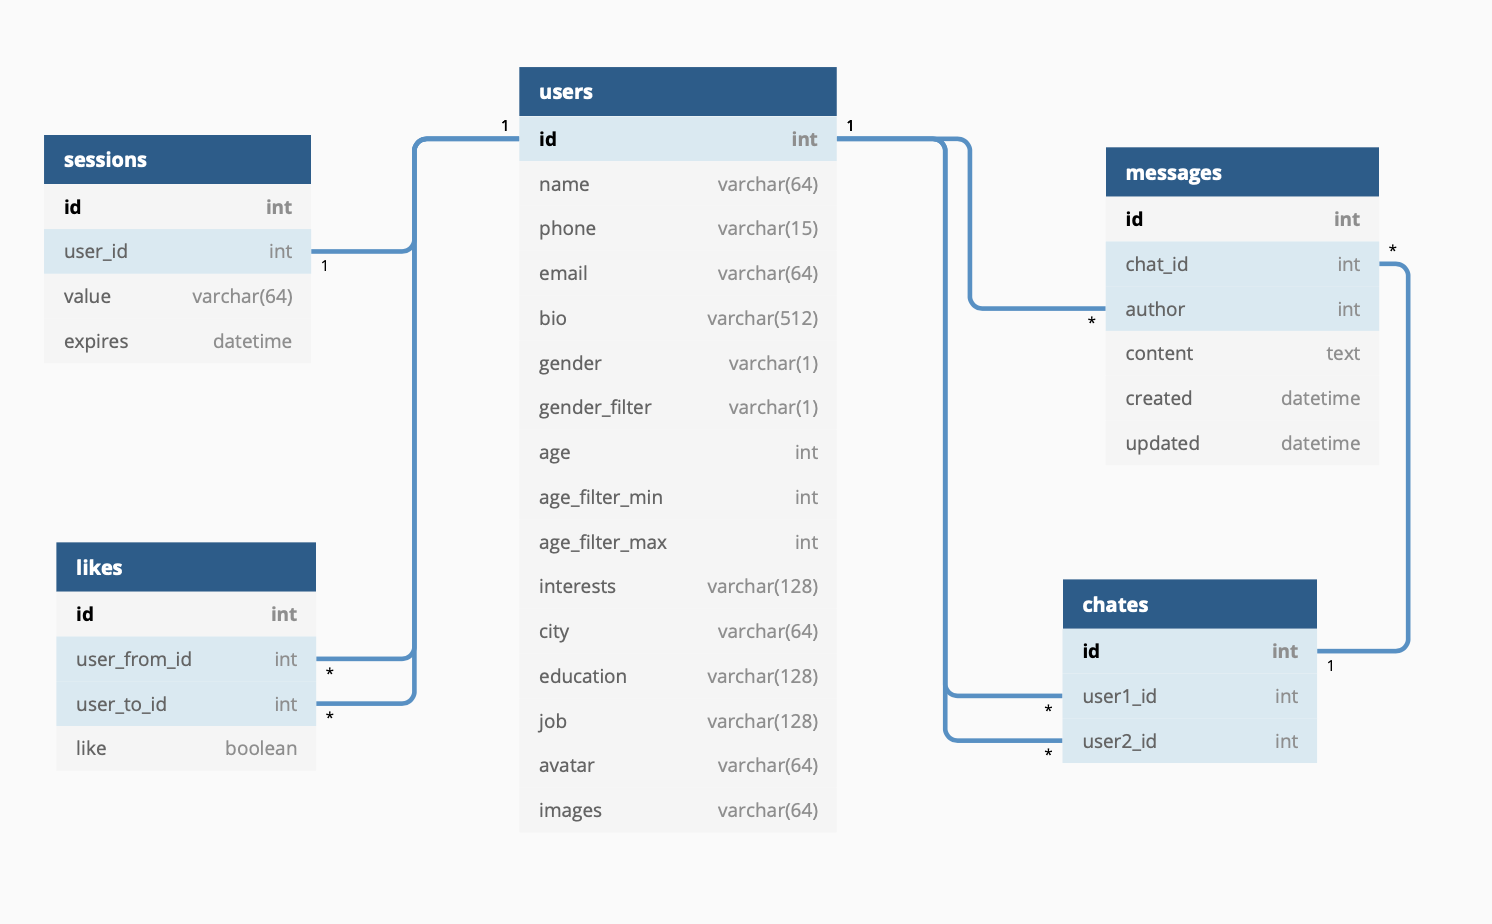
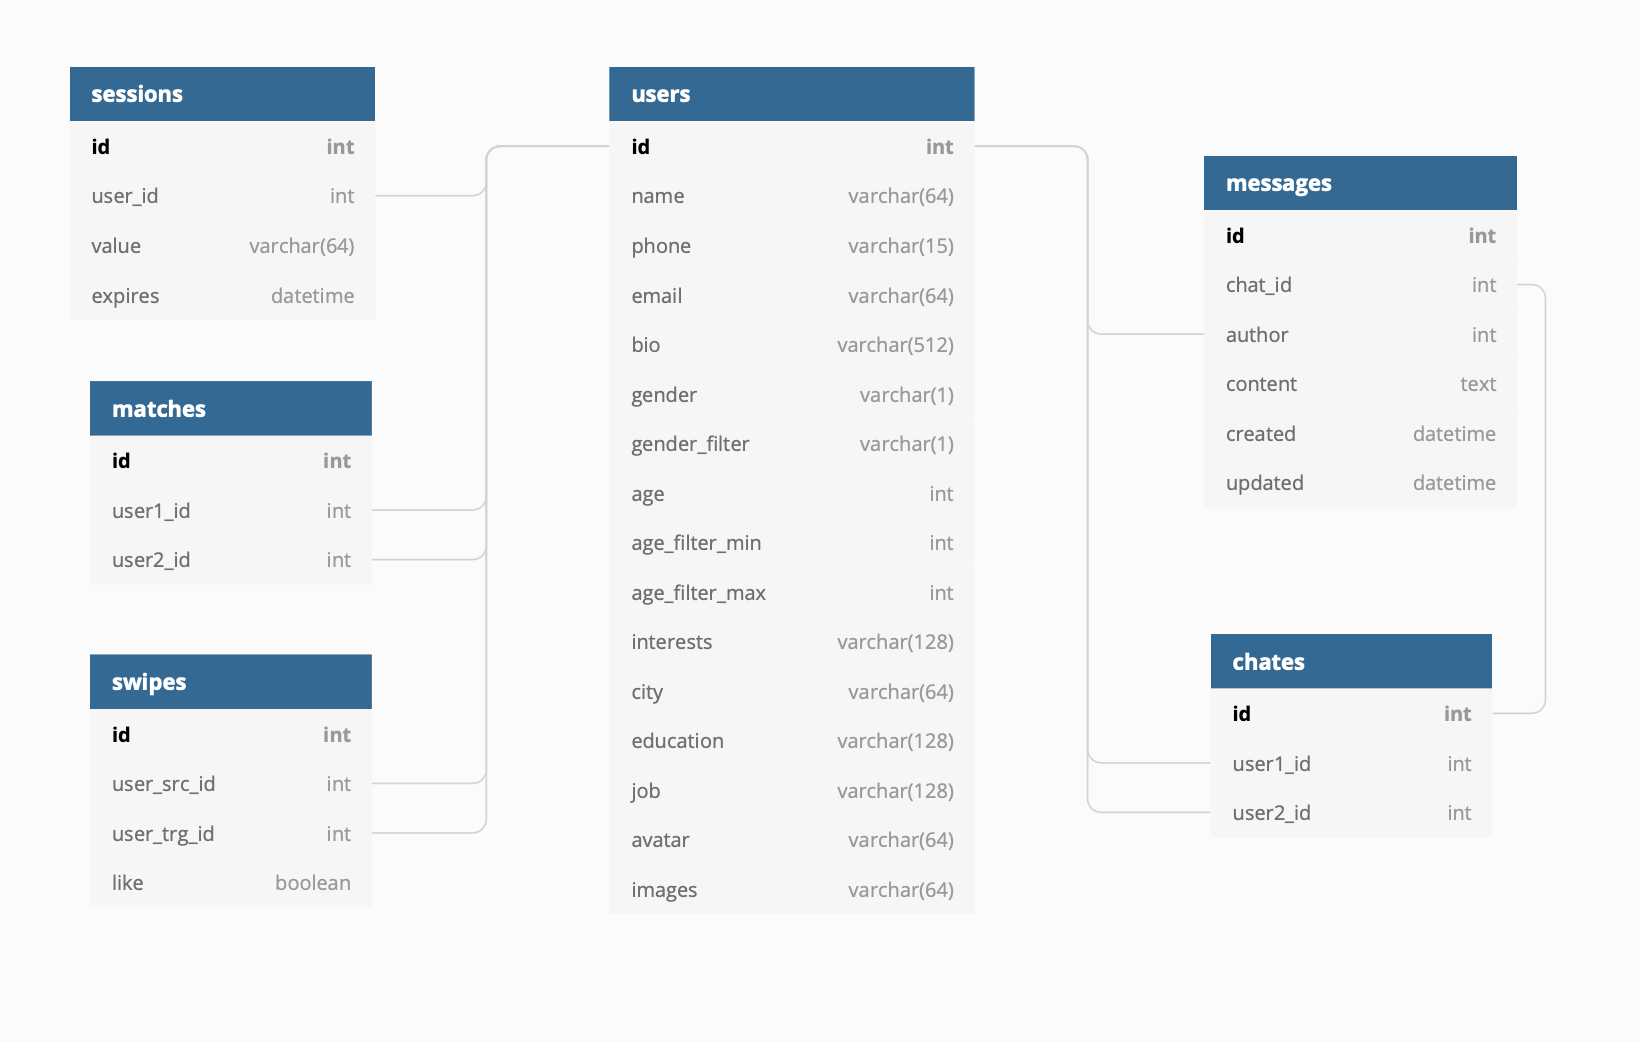
Update README.md

diff --git a/README.md b/README.md
@@ -28,7 +28,7 @@
 |80 млн|Количество зарегестрированных пользователей|
 |33 млн |[ Количество активных пользователей в месяц](https://www.reuters.com/article/us-match-group-results-idUSKBN2A22V1)|
 |12 млн (~37%)|[ Количество пользователей, пользующихся сервисом ежедневно](https://www.businessofapps.com/data/tinder-statistics/)|
-|16 млн (~50%)|[ Количество пользователей в пиковое время (21:00)](https://www.huffingtonpost.co.uk/entry/how-to-get-tinder-matches_n_56a78f4be4b0172c659422da)|
+|6 млн (~50%)|[ Количество пользователей в пиковое время (21:00)](https://www.huffingtonpost.co.uk/entry/how-to-get-tinder-matches_n_56a78f4be4b0172c659422da)|
 |25 минут|[ Среднее время использования сервиса в день](https://ogury.com/perspectives/research-and-insights/dater-analysis-the-habits-of-dating-app-users-around-the-world/)|
 |0.8 млрд|[ Количество свайпов в день](https://www.businessofapps.com/data/tinder-statistics/)|
 |1.5 млрд |[Пиковое количество свайпов за день](https://www.bbc.com/news/business-52743454)|
@@ -42,9 +42,20 @@
 	
 	120 млн * 10 = 1200 млн сообщений
 
+Также предположим, что в среднем каждый пользователь сделал по 500 свайпов, при этом 10% из них превращались в мэтчи.
+
+	80 млн * 500 = 40 млрд свайпов
+	
+	40 млрд * 0.1 = 4 млрд мэтчей
+
+
 ### Нагрузка
 
-##### Использования сайта 1 пользователем за 1 минуту:
+#### Общее RPS
+
+При использовании сайта воспроизводилась прокрутка ленты и общение в чате.
+
+###### Использование сайта 1 пользователем за 1 минуту:
 	
 	Статика - 1 МБ; 128 запросов
 	
@@ -52,43 +63,177 @@
 	
 	Изображения - 4 МБ; 92 запроса
 
-##### Использования сайта 1 пользователем за 1 день:
+###### Использование сайта за 1 день:
 
-При среднем времени использования сервиса в день равным 25 минутам:
+При среднем времени использования сервиса в день равным 25 минутам и количеcтве пользователей, ежедневно пользующиеся сервисом, равным 12 млн:
 
-	Статика - 1 МБ * 25 = 25 МБ; 128 * 25 = 3200 запросов
+	Статика - 1 МБ * 25 * 12e6 = 300e6 МБ; 128 * 25 * 12e6 = 38.4e9 запросов
 	
-	Динамика - 650 КБ * 25 ≈ 16 МБ; 63 * 25 = 1575 запросов
+	Динамика - 650 КБ * 25 * 12e6 = 192e6 МБ; 63 * 25 * 12e6 = 18.9e9 запросов
 	
-	Изображения - 4 МБ * 25 = 100 МБ; 92 * 25 = 2300 запросов
+	Изображения - 4 МБ * 25 * 12e6 = 1200e6 МБ; 92 * 25 * 12e6 = 27.6e9 запросов
 
-##### Использования сайта за 1 день:
+###### Трафик:
 
-При количеcтве пользователей, ежедневно пользующиеся сервисом, равным 12 млн:
-
-	Статика - 25 МБ * 12e6 = 300e6 МБ; 3200 * 12e6 = 38.4e9 запросов
+	Статика - 300e6 МБ / (24 * 60 * 60) ≈ 27 Гбит/с
 	
-	Динамика - 16 МБ * 12e6 = 192e6 МБ; 1575 * 12e6 = 18.9e9 запросов
+	Динамика - 192e6 МБ / (24 * 60 * 60) ≈ 17 Гбит/с
 	
-	Изображения - 100 МБ * 12e6 = 1200e6 МБ; 2300 * 12e6 = 27.6e9 запросов
-
-##### Трафик:
-
-	Статика - 300e6 МБ / (24 * 60 * 60) ≈ 27 Гб/с
-	
-	Динамика - 192e6 МБ / (24 * 60 * 60) ≈ 17 Гб/с
-	
-	Изображения - 1200e6 МБ / (24 * 60 * 60) ≈ 109 Гб/с
+	Изображения - 1200e6 МБ / (24 * 60 * 60) ≈ 109 Гбит/с
  
-##### RPS:
+###### RPS:
 
-	Статика 38.4e9 / (24 * 60 * 60) ≈ 444e3 RPS
+	Статика 38.4e9 / (24 * 60 * 60) ≈ 444 000 RPS
 	
-	Динамика 18.9e9 / (24 * 60 * 60) ≈ 218e3 RPS
+	Динамика 18.9e9 / (24 * 60 * 60) ≈ 218 000 RPS
 	
-	Изображения 27.6e9 / (24 * 60 * 60) = 319e3 RPS
+	Изображения 27.6e9 / (24 * 60 * 60) = 319 000 RPS
+
+
+#### RPS по типам запросов
+
+|Тип запроса|RPS|
+| -------------  | :-------------:  |
+|Проверка авторизации|74 000|
+|Профиль пользователя|59 000|
+|Свайпы и мэтчи|58 000|
+|Чаты|27 000|
 
 
 ## Логическая схема БД
 
 ![](./media/db.png)
+
+При прокрутки ленты свайпы сохраняются в таблицу swipes. Если находятся обоюдные свайпы с like=true, то данные о пользователях добавляются в таблицу matches. При этом мэтчи не исчезают с течением времени.
+
+## Физическая схема БД
+
+### Выбор СУБД
+
+Данные пользователей, чаты и сообщения будем хранить в PostgreSQL, как в наиболее надежной и функциональной реляционной БД.
+
+Данные сессии, свайпы и матчи будем хранить в Redis из-за его выскокой скорости работы. Также Redis поддерживает неблокирующую master-slave репликацию.
+
+|Сущность|СУБД|
+| -------------  | :-------------:  |
+|Users|PostgresSQL|
+|Sessions|Redis|
+|Swipes|Redis|
+|Matches|Redis|
+|Messages|PostgresSQL|
+|Chates|PostgresSQL|
+
+
+### Шардирование и репликация
+
+Данные пользователей, чаты будем шардировать по id. Сообщения будем шардировать по chat_id.
+
+Фотографии будем шардировать по выдаваемому им id.
+
+Для обеспечения отказоустойчивости используем master-slave репликацию.
+
+### Размер данных
+
+#### Фотографии
+
+В среднем у пользователя в профиле находится 3 фотографии. Ограничим размер изображений 1МБ. Тогда примерный вес всех фотографий:
+
+	80 млн * 3 * 1МБ = 240 млн МБ ≈ 245 Терабайта
+
+#### Профили пользователей
+
+Размер таблицы для 1 пользователя:
+
+	8 + 64 + 15 + 64 + 512 + 1 + 1 + 8 + 8 + 8 + 128 + 64 + 128 + 128 + 64 + 64 = 1265 Б
+
+Исходя из статистики в 80 млн зарегестрированных пользователей:
+
+	1265 Б * 80e6 = 1012e8 Б ≈ 100 ГБ
+
+
+#### Сессии пользователей
+
+Размер таблицы для 1 сессии:
+
+	8 + 8 + 64 + 8 = 88 Б
+
+С учетом 33 млн активных пользователей:
+
+	88 Б * 33e6 = 7040e6 Б ≈ 0.3 ГБ
+
+
+#### Свайпы и мэтчи
+
+Размер таблицы для 1 свайпа:
+
+	8 + 8 + 8 + 1 = 25 Б
+
+С учетом 40 млрд свайпов:
+
+	25 Б * 40e9 = 1e12 Б ≈ 931 ГБ
+
+Размер таблицы для 1 мэтча:
+
+	8 + 8 + 8 = 24 Б
+
+С учетом 4 млрд мэтчей:
+
+	24 Б * 4e9 = 96e9 Б ≈ 89 ГБ
+
+
+#### Чаты и сообщения пользователей
+
+Размер таблицы для 1 чата:
+
+	8 + 8 + 8 = 24 Б
+
+С учетом 120 млн чатов:
+
+	24 Б * 120e6 = 2880e6 Б ≈ 0.4 ГБ
+
+Размер таблицы для 1 сообщения, принимая среднею длину сообщения равную 30 Б:
+
+	8 + 8 + 8 + 30 + 8 + 8 = 70 Б
+
+С учетом 1200 млн сообщений:
+
+	70 Б * 1200e6 * 28 = 2352e9 Б ≈ 273 ГБ
+
+#### Итоговая таблица
+
+|Сущность|Размер (ГБ)|
+| -------------  | :-------------:  |
+|Сессии пользователей|0.3|
+|Профиль пользователей|100|
+|Свайпы и мэтчи|1020|
+|Чаты|274|
+|Фотографии|245 000|
+
+### Оборудование
+
+|Сущность|CPU (ядра)|RAM (Гб)|SSD (Гб)|Количество (masters+slaves)|
+| -------------  | :-------------:  | :-------------:  | :-------------: | :-------------: |
+|Сервисы авторизации|64|128|256|12 + 24|
+|Сервис пользователя|64|128|256|10 + 20|
+|Сервис свайпов и мэтчей|64|128|256|10 + 20|
+|Сервис чатов|64|128|256|5 + 10|
+|БД|32|128|256|9 + 18|
+|Фотографии|64|128|2048|128 + 256|
+
+#### Расположение серверов
+
+Целевая аудитория находится в Северной Америке и Европе, поэтому расположим сервера в США и Германии.
+
+## Выбор технологий
+
+### Backend
+
+Языком программирования выбран Golang. В качестве его преимуществ стоит выделить удобный менеджер зависимистей (go.mod), статическую типизацию, большое количество ранонаправленных библиотек, эффективную многопоточность (горутины). Микросервисная архитектура. В качестве протокола взимодействия выбран gRPC.
+
+### Frontend
+
+HTML, CSS/Sass, JS/Typescript с использованием фреймворка React. В качестве сборщика модулей - Webpack.
+
+### Хостинг
+
+В качестве хостинга выбран AWS.
